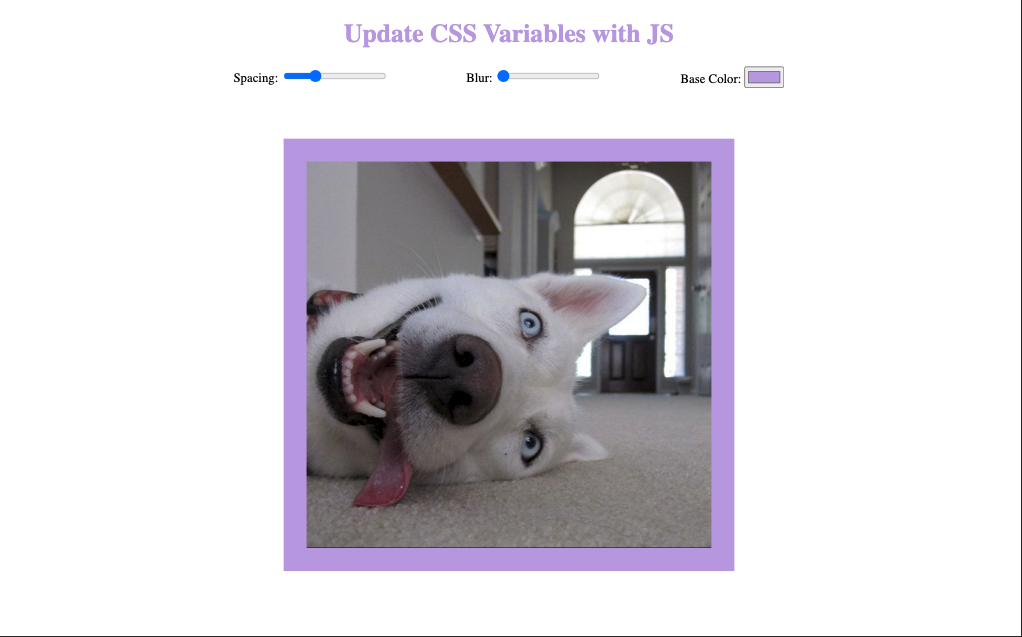
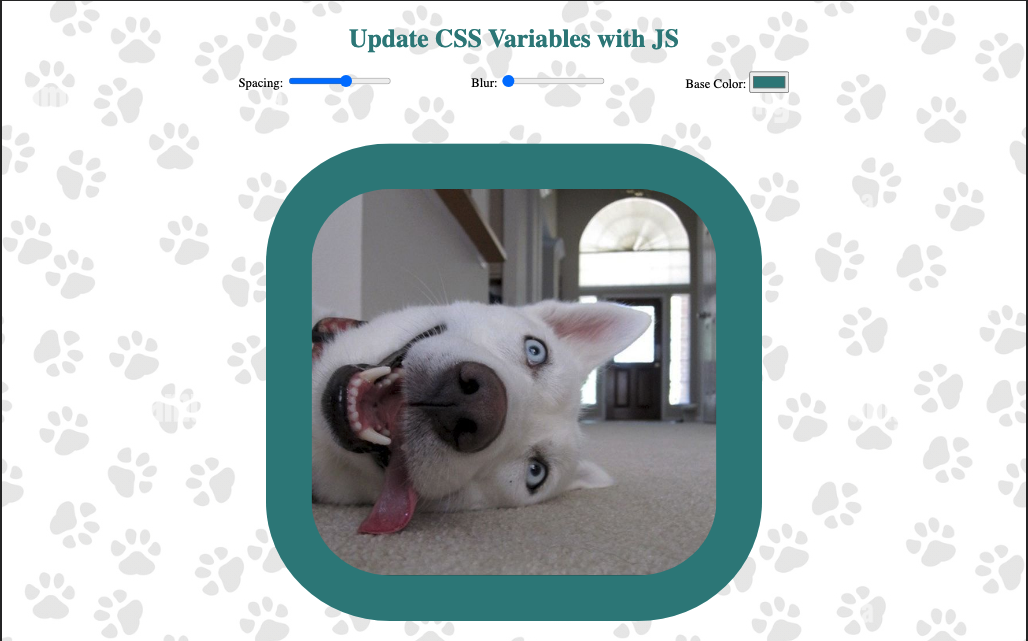
added more css

diff --git a/03. Playing with CSS and JS/style.css b/03. Playing with CSS and JS/style.css
@@ -4,6 +4,12 @@
   --blur: 0px;
 }
 body {
+  background: linear-gradient(
+      rgba(255, 255, 255, 0.9),
+      rgba(255, 255, 255, 0.9)
+    ),
+    url("./paws.png");
+  background-size: cover;
   display: flex;
   align-items: center;
   justify-content: center;
@@ -22,6 +28,7 @@ img {
   padding: var(--spacing);
   background: var(--color);
   filter: blur(var(--blur));
+  border-radius: 25%;
 }
 .container {
   display: flex;
